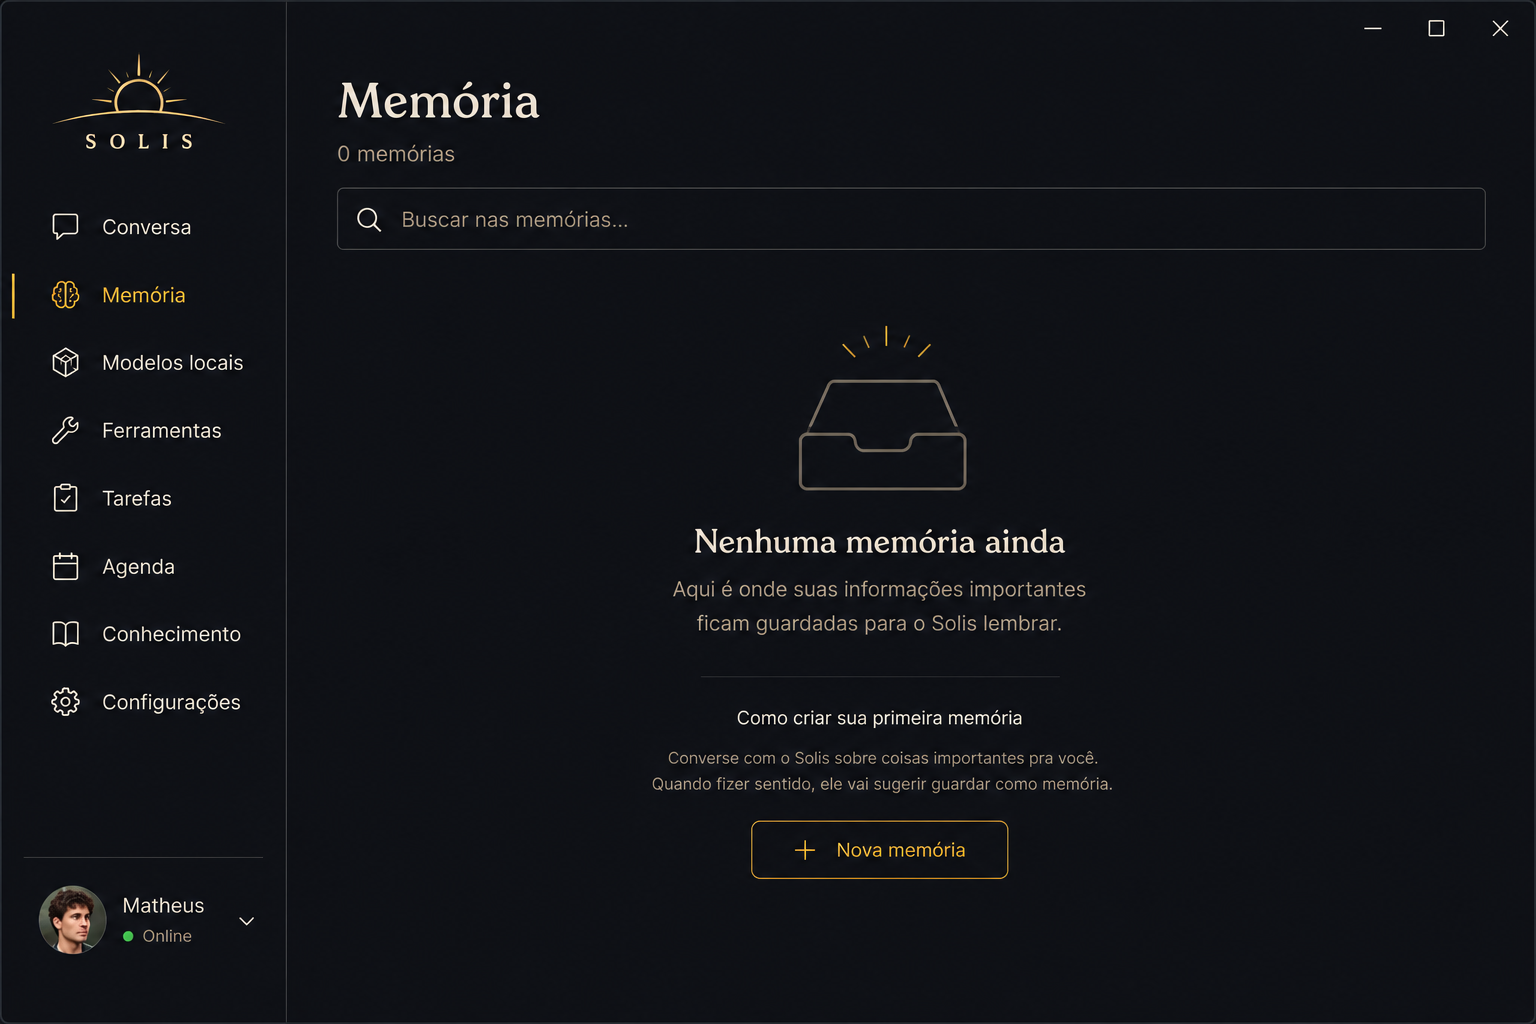
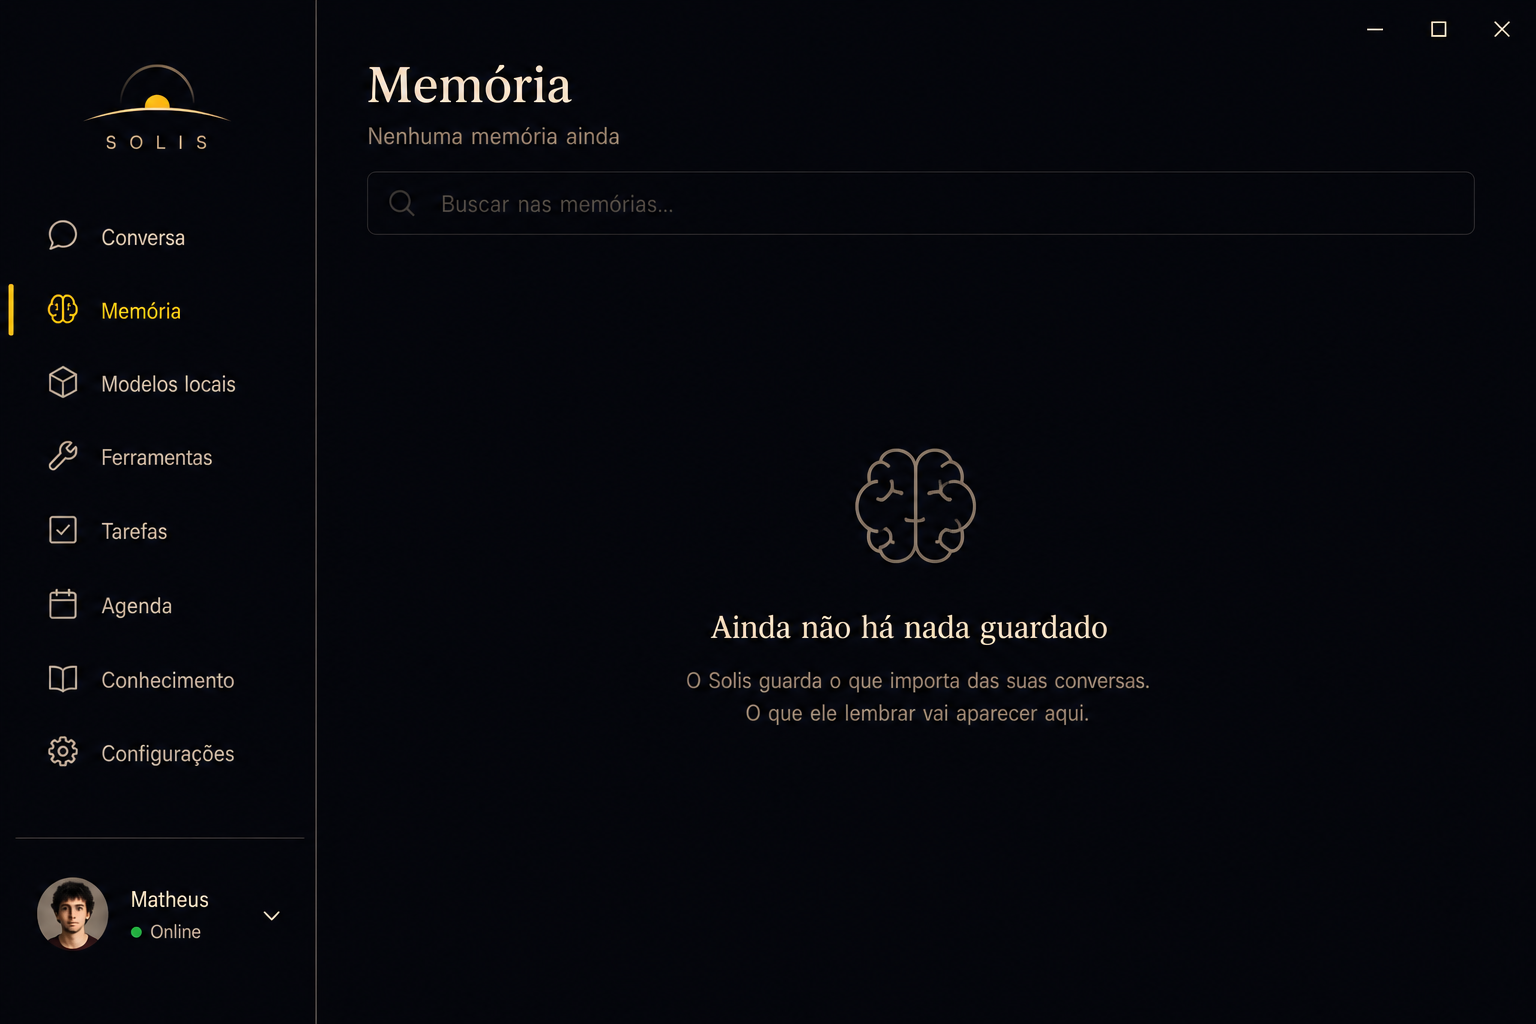
refs: entra a 2a geracao das 6 telas, e o metodo de medicao que ela fechou
As 6 vieram corretas em conteudo e estrutura: a espacial agora e bege e vinho,
Configuracoes tem so os 3 controles, o estado vazio perdeu o botao "Nova
memoria" e a barra de icones finalmente e SEM sidebar, com os 8 itens de
navegacao numa capsula flutuante. _a-revisar/ deixou de existir.

O que a 2a geracao provou
-------------------------
O gerador nao obedece medida absoluta, e insistir piora:

                            sidebar @1440   cap do rotulo da nav
  app (aprovado)                    200px                 10,2px
  1a geracao                        267px                 14,1px
  2a, com "213px" gritado no prompt 297px                 16,9px

Reconciliar pela sidebar tambem nao serve: as duas geracoes dao fatores
diferentes (0,724 e 0,604) e portanto valores diferentes pra mesma coisa — o
titulo sairia 34px por uma e 28px pela outra.

O que e estavel sao as razoes DENTRO da area de conteudo:

  titulo / texto do item    2,11 e 2,00
  origem / texto do item    0,88 e 0,89
  data   / texto do item      —  e 0,94

Metodo, daqui pra frente: da referencia vem estrutura, composicao, hierarquia e
proporcao; a escala vem do design system ja construido. A ancora e o corpo de
texto de 16px, fechado desde a Conversa, e todo tamanho de tipo sai de uma razao
contra ele.

Isso muda os prompts tambem: parar de por especificacao de pixel neles.

A Memoria construida sobreviveu as duas medicoes — titulo 34 contra 32 medidos,
[…]

diff --git a/solis-repo/solis-repo/src/styles/tokens.css b/solis-repo/solis-repo/src/styles/tokens.css
@@ -60,7 +60,7 @@
   --mem-item-lh: 1.55;
   --mem-origem-top: 7px;
   --mem-origem: 14px;
-  --mem-data: 14px;
+  --mem-data: 15px;
   --mem-texto-max: 540px;
 
   /* A cena e uma BANDA ancorada na base da area de conteudo, nao um fundo de

diff --git a/solis-repo/solis-repo/docs/MEDICOES_FASE2.md b/solis-repo/solis-repo/docs/MEDICOES_FASE2.md
@@ -604,6 +604,57 @@ Folha de validação: `design/estados-glow.png` (os 5 estados, em duas fases do 
 Os renders antigos em `brand/states/` foram para `_legado/`: o glow deixou de ser asset e
 virou código.
 
+## Como medir uma referência nova — o gerador não segura geometria
+
+Vale para toda tela daqui para frente, e custou duas gerações para ficar claro.
+
+**O gerador de imagem não obedece medida absoluta.** Tentado duas vezes:
+
+| | sidebar (normalizada para 1440) | caixa alta do rótulo da nav |
+|---|---|---|
+| app (aprovado, construído) | 200px | 10,2px |
+| 1ª geração | 267px | 14,1px |
+| 2ª geração, com "213px" repetido em maiúscula no prompt | **297px** | **16,9px** |
+
+A segunda tentativa foi **mais longe**, não mais perto. Insistir no prompt não resolve.
+
+**Reconciliar pela sidebar também não serve.** As duas gerações dão fatores diferentes
+(0,724 e 0,604) e portanto valores diferentes para a mesma coisa — o título sairia 34px por
+uma e 28px pela outra. O gerador escala a sidebar independentemente do conteúdo, então ela
+não é régua.
+
+**O que é estável são as razões dentro da área de conteúdo:**
+
+| razão | 1ª geração | 2ª geração |
+|---|---|---|
+| título / texto do item | 2,11 | 2,00 |
+| origem / texto do item | 0,88 | 0,89 |
+| data / texto do item | — | 0,94 |
+
+### O método
+
+1. Da referência vêm **estrutura, composição, hierarquia, conteúdo e proporção**.
+2. A **escala** vem do design system já construído e aprovado.
+3. Âncora: o **corpo de texto**, 16px, fechado desde a tela de Conversa. Todo tamanho de
+   tipo da tela nova sai de uma razão contra ele, medida na referência.
+4. Geometria horizontal e vertical: medida **relativa à divisória da sidebar** e às
+   proporções internas, nunca em px absoluto tirado da imagem.
+
+Isso muda os prompts também: **parar de pôr especificação de pixel neles.** Pedir estrutura,
+conteúdo e hierarquia, e deixar a escala comigo — é menos frágil e o resultado sai melhor.
+
+### O que a Memória construída ganhou com isso
+
+Os valores já entregues sobreviveram às duas medições:
+
+| | construído | 2ª geração (razão × 16px) |
+|---|---|---|
+| título | 34px | 32,0px |
+| origem | 14px | 14,2px |
+| data | 14px → **15px** | 15,1px |
+
+Só a data mudou, de 14 para 15px.
+
 ## Ainda em aberto
 
 1. **Referência visual do card Aparência** — ele vai ganhar o seletor de tema e o seletor
